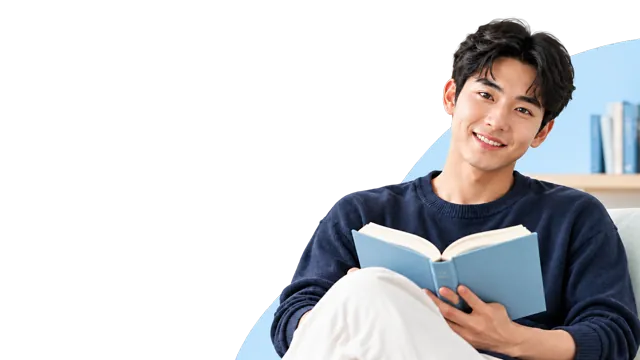
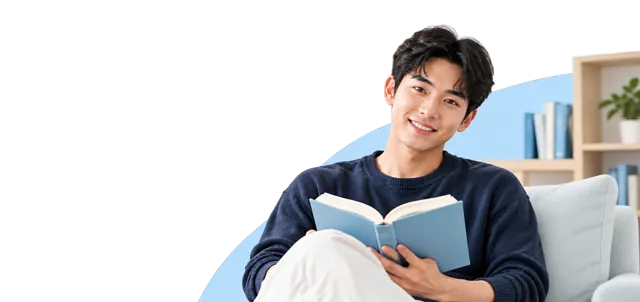
Swap hero image to 'Reading on a Sofa' (WebP 41KB / 16KB)

diff --git a/deploy/index.html b/deploy/index.html
@@ -536,7 +536,7 @@ body{-webkit-user-select:none;user-select:none;-webkit-touch-callout:none;-webki
   <h1>You read to<br><span class="ph2 rot" style="color:var(--accent);background:var(--leaf)"><span id="rotWord">speak</span> better.</span></h1>
   <p>Simple. Word to Word. Easy and Fun.</p>
   <button class="heroCta" id="startBtn" type="button">Start Reading <svg viewBox="0 0 24 24" width="20" height="20" fill="none" stroke="currentColor" stroke-width="2.4" stroke-linecap="round" stroke-linejoin="round" aria-hidden="true"><path d="M5 12h14"/><path d="m12 5 7 7-7 7"/></svg></button>
-  <img class="heroImg" src="img/hero.webp" srcset="img/hero-sm.webp 640w, img/hero.webp 1200w" sizes="(max-width:820px) 135vw, 62vw" width="1200" height="674" alt="" aria-hidden="true" fetchpriority="high" decoding="async" draggable="false">
+  <img class="heroImg" src="img/hero.webp" srcset="img/hero-sm.webp 640w, img/hero.webp 1200w" sizes="(max-width:820px) 135vw, 62vw" width="1200" height="566" alt="" aria-hidden="true" fetchpriority="high" decoding="async" draggable="false">
   <i id="homeAnchor" aria-hidden="true" style="position:fixed;left:50%;bottom:26px;width:2px;height:2px;pointer-events:none"></i>
 </section>
 <div id="heroPanel" hidden>

diff --git a/index.html b/index.html
@@ -536,7 +536,7 @@ body{-webkit-user-select:none;user-select:none;-webkit-touch-callout:none;-webki
   <h1>You read to<br><span class="ph2 rot" style="color:var(--accent);background:var(--leaf)"><span id="rotWord">speak</span> better.</span></h1>
   <p>Simple. Word to Word. Easy and Fun.</p>
   <button class="heroCta" id="startBtn" type="button">Start Reading <svg viewBox="0 0 24 24" width="20" height="20" fill="none" stroke="currentColor" stroke-width="2.4" stroke-linecap="round" stroke-linejoin="round" aria-hidden="true"><path d="M5 12h14"/><path d="m12 5 7 7-7 7"/></svg></button>
-  <img class="heroImg" src="img/hero.webp" srcset="img/hero-sm.webp 640w, img/hero.webp 1200w" sizes="(max-width:820px) 135vw, 62vw" width="1200" height="674" alt="" aria-hidden="true" fetchpriority="high" decoding="async" draggable="false">
+  <img class="heroImg" src="img/hero.webp" srcset="img/hero-sm.webp 640w, img/hero.webp 1200w" sizes="(max-width:820px) 135vw, 62vw" width="1200" height="566" alt="" aria-hidden="true" fetchpriority="high" decoding="async" draggable="false">
   <i id="homeAnchor" aria-hidden="true" style="position:fixed;left:50%;bottom:26px;width:2px;height:2px;pointer-events:none"></i>
 </section>
 <div id="heroPanel" hidden>
